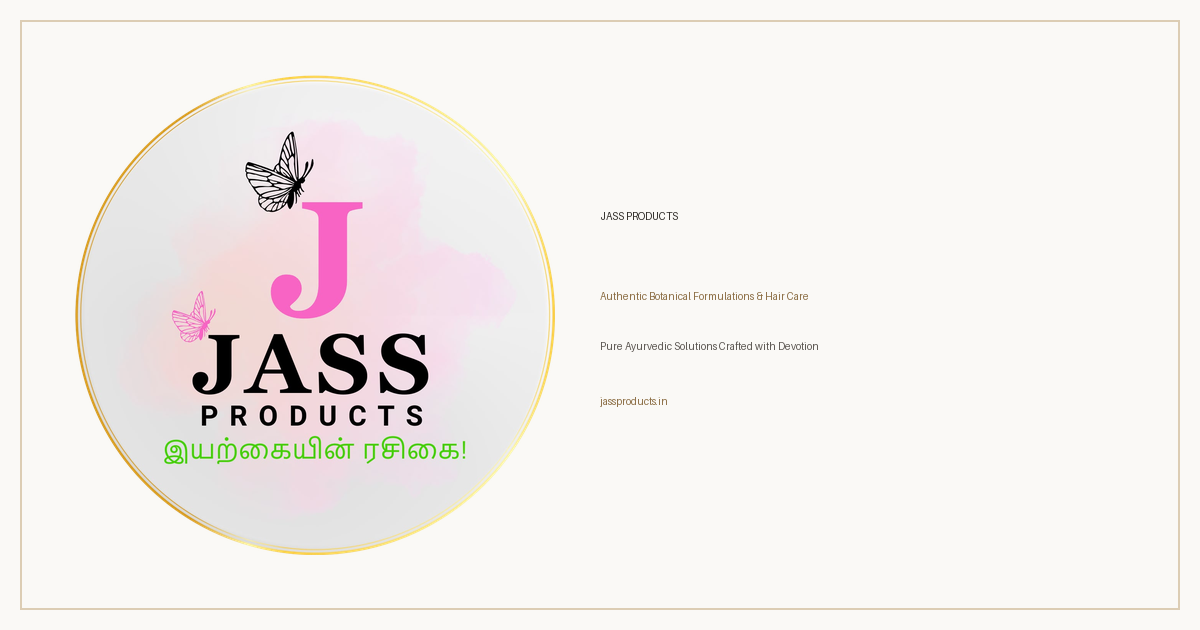
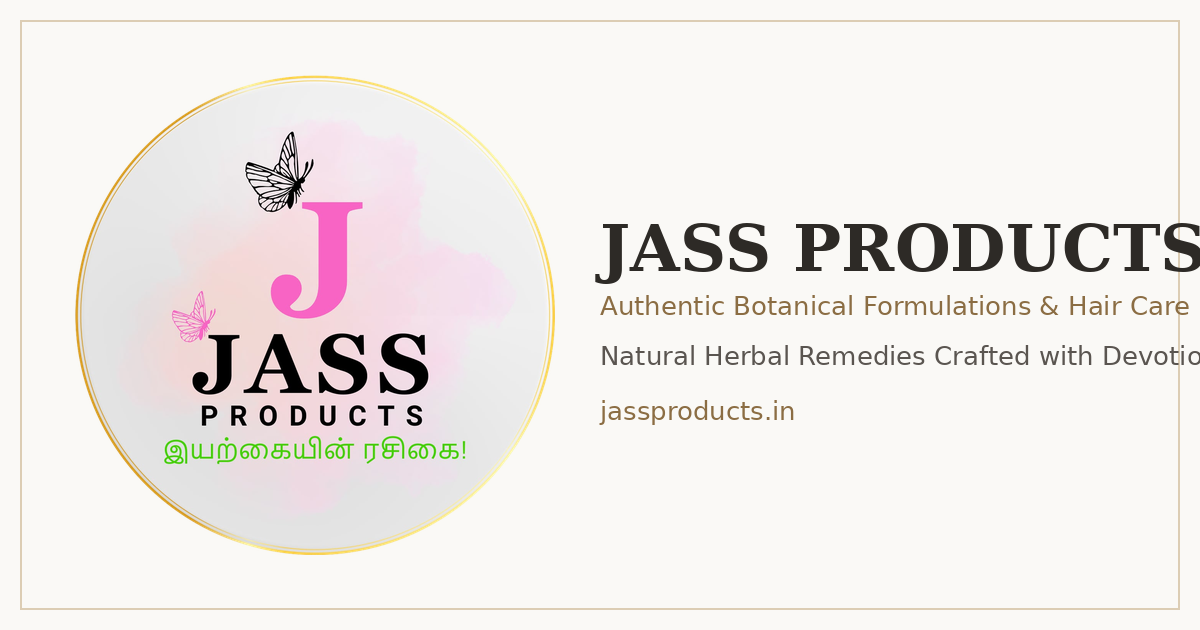
fix(branding): replace Jass Ayurveda with Jass Products across site and admin console

Changed region(s): [[0.4933, 0.3317, 1.0, 0.5127], [0.4933, 0.5429, 1.0, 0.6032], [0.4933, 0.6333, 0.6783, 0.6635]]

diff --git a/src/features/admin/store/admin-store.ts b/src/features/admin/store/admin-store.ts
@@ -71,9 +71,9 @@ function generateSeedProducts(): ExtendedProduct[] {
       salePrice: p.price,
       gstRate: 18,
       hsnCode: "3305.90.11",
-      brand: "Jass Ayurveda",
+      brand: "Jass Products",
       subcategory: p.category,
-      tags: [p.category, "Ayurveda", "Cold-Pressed", "Organic"],
+      tags: [p.category, "Botanical", "Cold-Pressed", "Organic"],
       stockQuantity: stockQty,
       minStockThreshold: 15,
       maxStockLimit: 250,
@@ -873,7 +873,7 @@ export async function saveProduct(productData: Partial<ExtendedProduct>): Promis
       stockStatus: (productData.stockQuantity || 50) > 15 ? "IN_STOCK" : "LOW_STOCK",
       costPrice: productData.costPrice || Math.round((productData.price || 50) * 0.45),
       price: productData.price || 50,
-      brand: "Jass Ayurveda",
+      brand: "Jass Products",
       subcategory: productData.category || "HAIR CARE",
       tags: [productData.category || "HAIR CARE", "Ayurvedic"],
       inStock: true,

diff --git a/src/pages/HomePage.tsx b/src/pages/HomePage.tsx
@@ -308,7 +308,7 @@ export const HomePage: React.FC<HomePageProps> = ({ scrollY, onNavigate }) => {
             </p>
           </div>
           <a
-            href="https://www.youtube.com/@jassayurveda"
+            href="https://www.youtube.com/@jassproducts"
             target="_blank"
             rel="noopener noreferrer"
             className="inline-flex items-center gap-2 text-xs font-semibold tracking-[0.14em] uppercase text-neutral-900 border border-neutral-300 bg-white/90 hover:bg-neutral-950 hover:text-white hover:border-neutral-950 px-5 py-2.5 rounded-xl transition-all duration-300 self-start md:self-auto cursor-pointer shadow-2xs"

diff --git a/src/pages/AboutPage.tsx b/src/pages/AboutPage.tsx
@@ -94,7 +94,7 @@ export const AboutPage: React.FC<AboutPageProps> = ({ onNavigate }) => {
           </div>
           <div className="absolute -bottom-6 -right-4 sm:right-6 bg-white p-5 rounded-2xl border border-[#d2c2ad]/60 shadow-xl max-w-xs">
             <p className="font-serif text-sm font-bold text-neutral-900 mb-1">
-              "Ayurveda is the art of living in harmony with nature's rhythm."
+              "Pure botanicals in harmony with nature's rhythm."
             </p>
             <span className="text-[10px] uppercase tracking-widest text-[#8b6d43] font-semibold">
               Jass Botanical Apothecary

diff --git a/src/components/admin/views/SettingsView.tsx b/src/components/admin/views/SettingsView.tsx
@@ -2,7 +2,7 @@ import React, { useState } from "react";
 import { Settings, Save, Check, ShieldCheck, Mail, MapPin, Building2 } from "lucide-react";
 
 export const SettingsView: React.FC = () => {
-  const [storeName, setStoreName] = useState("JASS AYURVEDA");
+  const [storeName, setStoreName] = useState("JASS PRODUCTS");
   const [currency, setCurrency] = useState("INR (₹)");
   const [gstin, setGstin] = useState("29AABCJ1984K1Z4");
   const [supportEmail, setSupportEmail] = useState("apothecary@jassproducts.com");

diff --git a/src/components/admin/layout/AdminSidebar.tsx b/src/components/admin/layout/AdminSidebar.tsx
@@ -176,7 +176,7 @@ export const AdminSidebar: React.FC<AdminSidebarProps> = ({
           {!collapsed && (
             <div>
               <span className="font-serif font-bold text-sm tracking-wide text-[#2D2A26] block leading-tight">
-                JASS AYURVEDA
+                JASS PRODUCTS
               </span>
               <span className="text-[10px] text-[#8B6D43] tracking-widest uppercase block font-mono font-semibold">
                 Apothecary Console

diff --git a/src/components/admin/modals/PrintableOrderModal.tsx b/src/components/admin/modals/PrintableOrderModal.tsx
@@ -62,7 +62,7 @@ export const PrintableOrderModal: React.FC<PrintableOrderModalProps> = ({
               />
               <div>
                 <h1 className="font-serif text-2xl sm:text-3xl font-bold tracking-tight text-neutral-900">
-                  JASS AYURVEDA
+                  JASS PRODUCTS
                 </h1>
                 <p className="text-xs text-neutral-500 font-mono mt-0.5">
                   Authentic Botanical Formulations & Dispensary

diff --git a/src/pages/FaqPage.tsx b/src/pages/FaqPage.tsx
@@ -83,7 +83,7 @@ export const FaqPage: React.FC<FaqPageProps> = ({ onNavigate }) => {
 
   const categories = [
     { id: 'shipping', label: 'Shipping & Delivery', icon: Truck },
-    { id: 'products', label: 'Ayurveda & Products', icon: Sparkles },
+    { id: 'products', label: 'Our Products', icon: Sparkles },
     { id: 'returns', label: 'Returns & Guarantee', icon: RefreshCw },
     { id: 'payments', label: 'Payment & Security', icon: ShieldCheck },
   ];

diff --git a/src/components/admin/views/ProductsView.tsx b/src/components/admin/views/ProductsView.tsx
@@ -277,7 +277,7 @@ export const ProductsView: React.FC<ProductsViewProps> = ({
         searchPlaceholder="Search by name, SKU, or active herbs..."
         searchField={(p) => `${p.name} ${p.sku} ${p.category}`}
         onRowClick={(p) => onEditProduct(p)}
-        exportFileName="jass-ayurveda-catalog.csv"
+        exportFileName="jass-products-catalog.csv"
       />
 
       {/* Delete Confirmation Modal */}

diff --git a/src/components/Footer.tsx b/src/components/Footer.tsx
@@ -68,7 +68,7 @@ export const Footer: React.FC<FooterProps> = ({ onNavigate }) => {
                 Authentic Botanical Dispensary
               </span>
               <h2 className="text-3xl sm:text-4xl md:text-5xl font-serif text-[#f9f8f4] tracking-tight">
-                JASS AYURVEDA
+                JASS PRODUCTS
               </h2>
             </div>
           </div>

diff --git a/PRODUCT.md b/PRODUCT.md
@@ -33,7 +33,7 @@ Daily hair, bath, and skin rituals in Indian households. Customers evaluate form
 
 ## Brand Commitments
 
-- **Name:** Jass Products / Jass Ayurveda.
+- **Name:** Jass Products.
 - **Voice:** Grounded, honest, editorial, and educational; strictly rejects AI marketing buzzwords ("miracle", "game-changer", "unleash", "elevate") and artificial urgency countdowns.
 - **Botanical Integrity:** Full ingredient disclosure with Latin binomials on packaging and digital pages.
 
